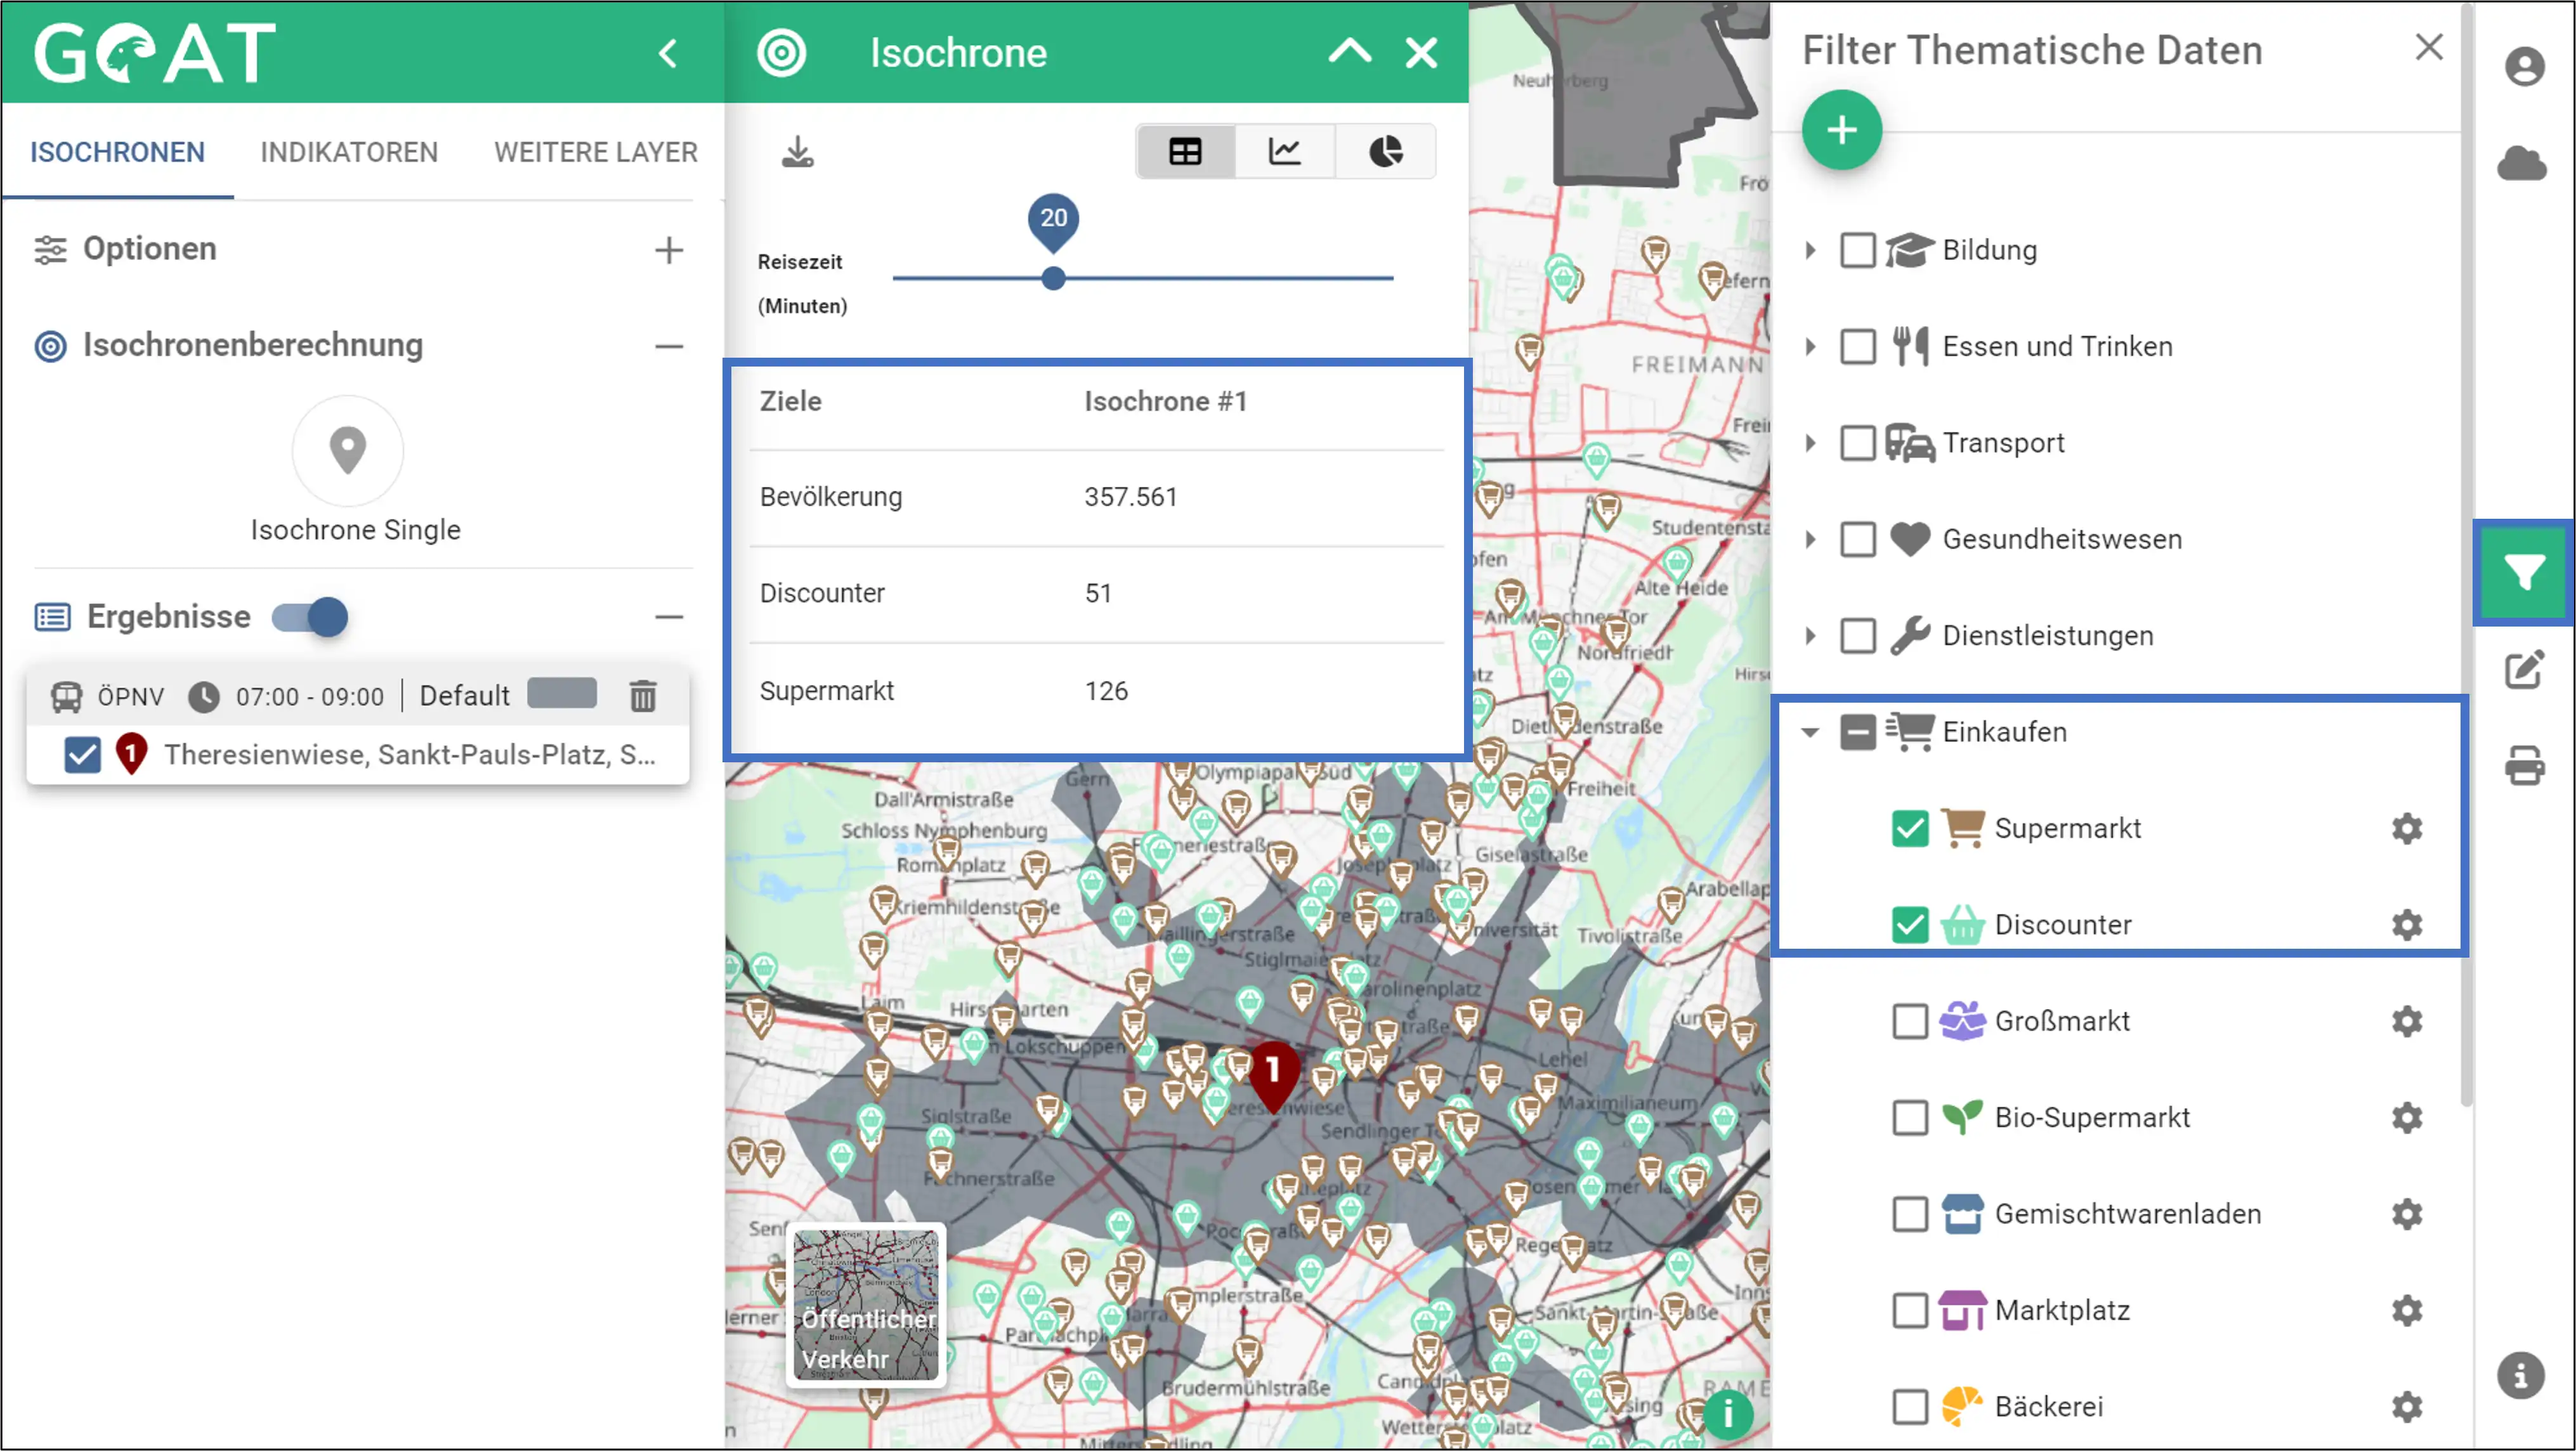
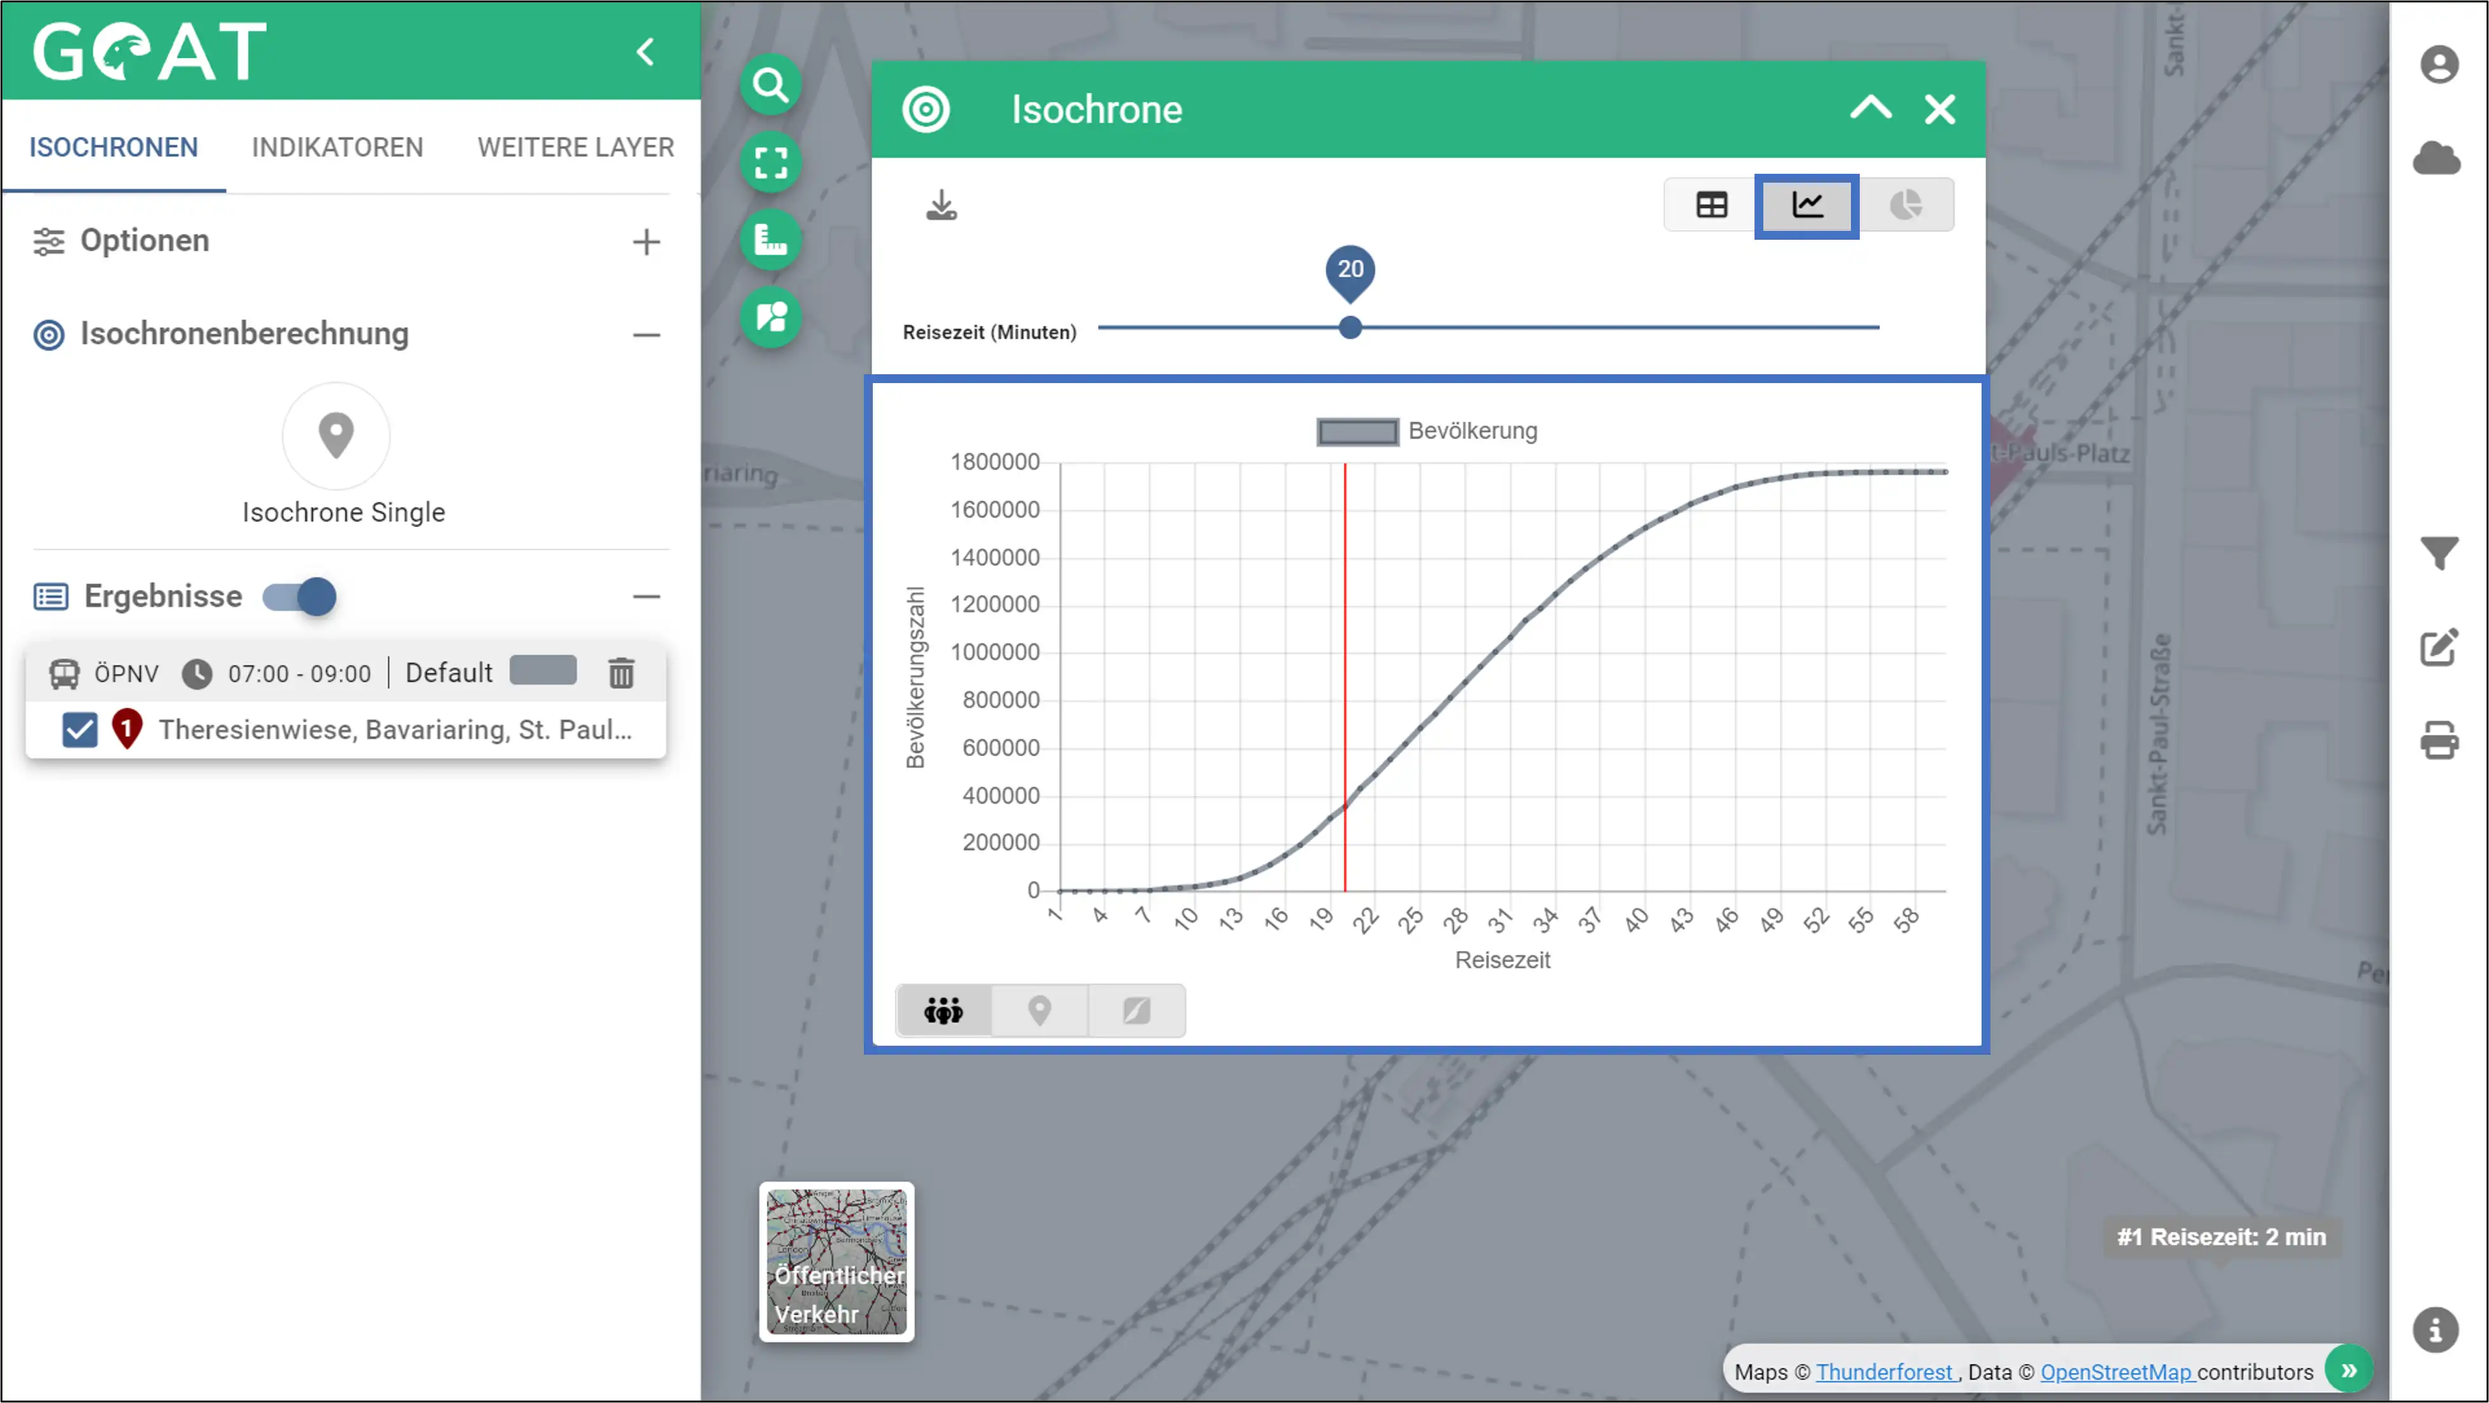
Revised-new planning question

diff --git a/content/en/tutorials/isochrone.md b/content/en/tutorials/isochrone.md
@@ -95,27 +95,27 @@ How many people can access a specific location within 20min by rail-based public
 1. Change the routing mode to “Transit” and choose the desired options.(Weekday,time intervals,access-egress mode). On the “Transit Modes” panel you can select the public transportation options. In this example we will work with rail-based public transport(tram,underground,train). 
 Change the default basemap Mapbox to Public transport.
 
-<img src="/images/tutorials/Isochrone/isochrone_3.1public_en.webp"  alt="download" style="max-height:400px;"/>
+<img src="/images/tutorials/Isochrone/isochrone_3.1public_en.webp"  alt="change_routing_mode" style="max-height:400px;"/>
 
 2. Click "Isochrone Single" and zoom in the area where you want to calculate the isochrone.
 
-<img src="/images/tutorials/Isochrone/isochrone_3.2public_en.webp"  alt="download" style="max-height:400px;"/>
+<img src="/images/tutorials/Isochrone/isochrone_3.2public_en.webp"  alt="choose isochrone" style="max-height:400px;"/>
 
 3. Place the starting point for the isochrone.
 
-<img src="/images/tutorials/Isochrone/isochrone_3.3public_en.webp"  alt="download" style="max-height:400px;"/>
+<img src="/images/tutorials/Isochrone/isochrone_3.3public_en.webp"  alt="choose starting point" style="max-height:400px;"/>
 
 4. After the calculation has been carried out, a window with the results opens automatically. From this window you can see how many people can access a specific location within 20min by rail-based public transport. You can also change the travel time by using slider.
 
-<img src="/images/tutorials/Isochrone/isochrone_3.4public_en.webp"  alt="download" style="max-height:400px;"/>
+<img src="/images/tutorials/Isochrone/isochrone_3.4public_en.webp"  alt="result" style="max-height:400px;"/>
 
-5. In order to see the POI's that exist within this area, you can display the categories you want such as "shop" from Thematic Data Filter. 
+You can also view the population graph with travel time by clicking the graph button indicated by the blue box.
 
-<img src="/images/tutorials/Isochrone/isochrone_3.5public_en.webp"  alt="download" style="max-height:400px;"/>
+<img src="/images/tutorials/Isochrone/isochrone_3.5public_en.webp"  alt="result-graph" style="max-height:400px;"/>
 
-The results can be displayed in different forms such as pie chart. You can click the options indicated with blue box.
 
-<img src="/images/tutorials/Isochrone/isochrone_3.6public_en.webp"  alt="download" style="max-height:400px;"/>
+
+
 
 
 
